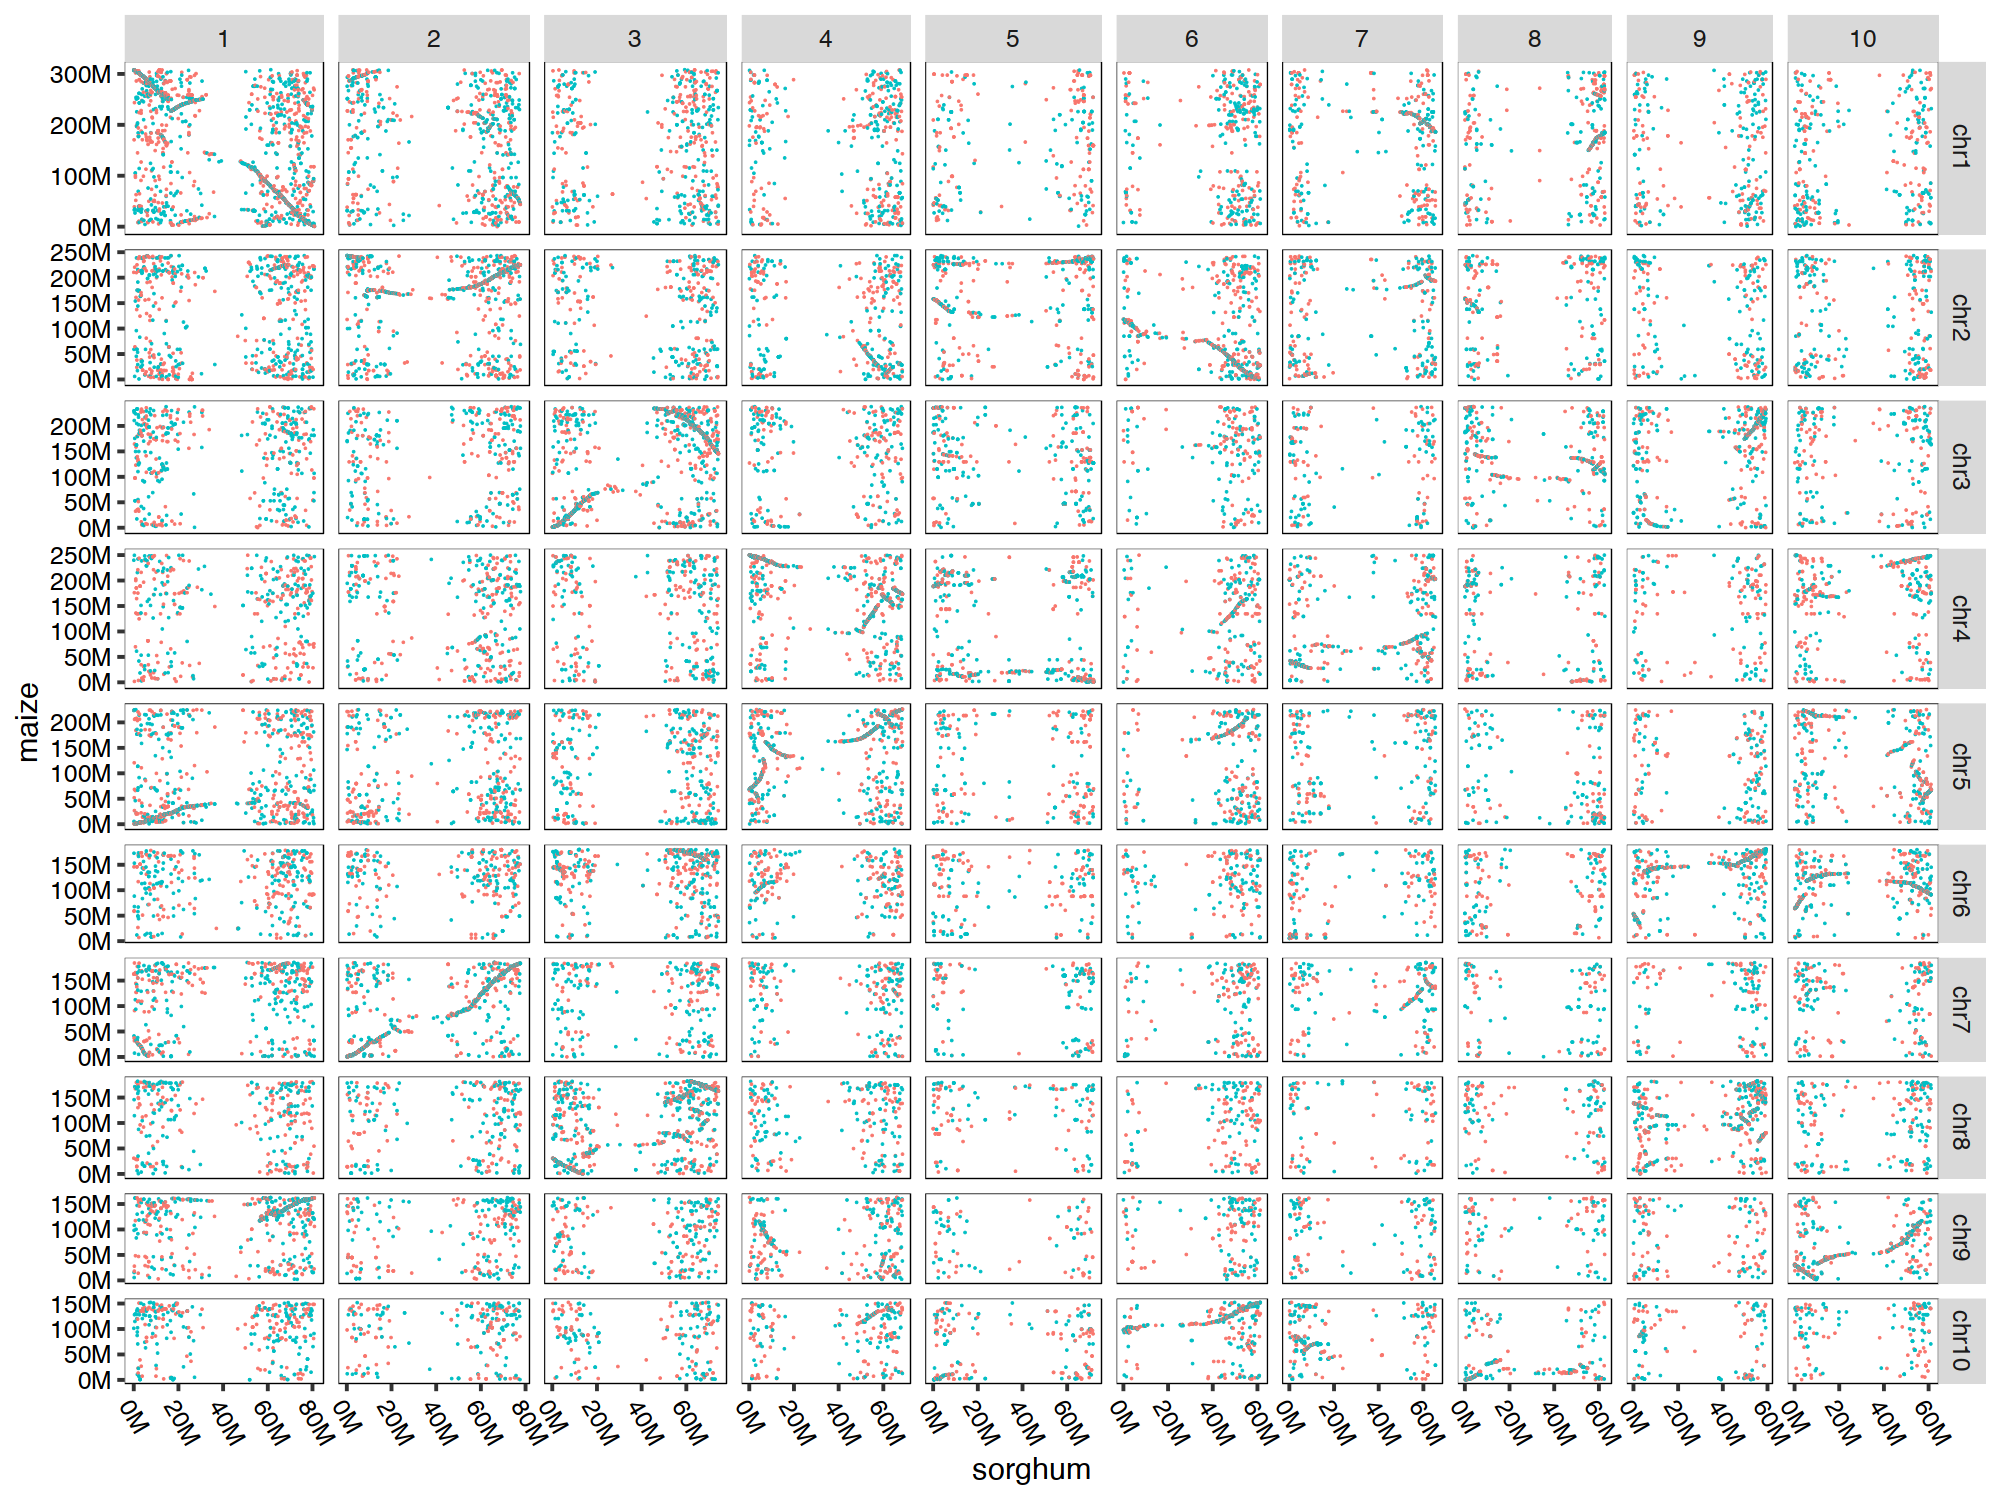
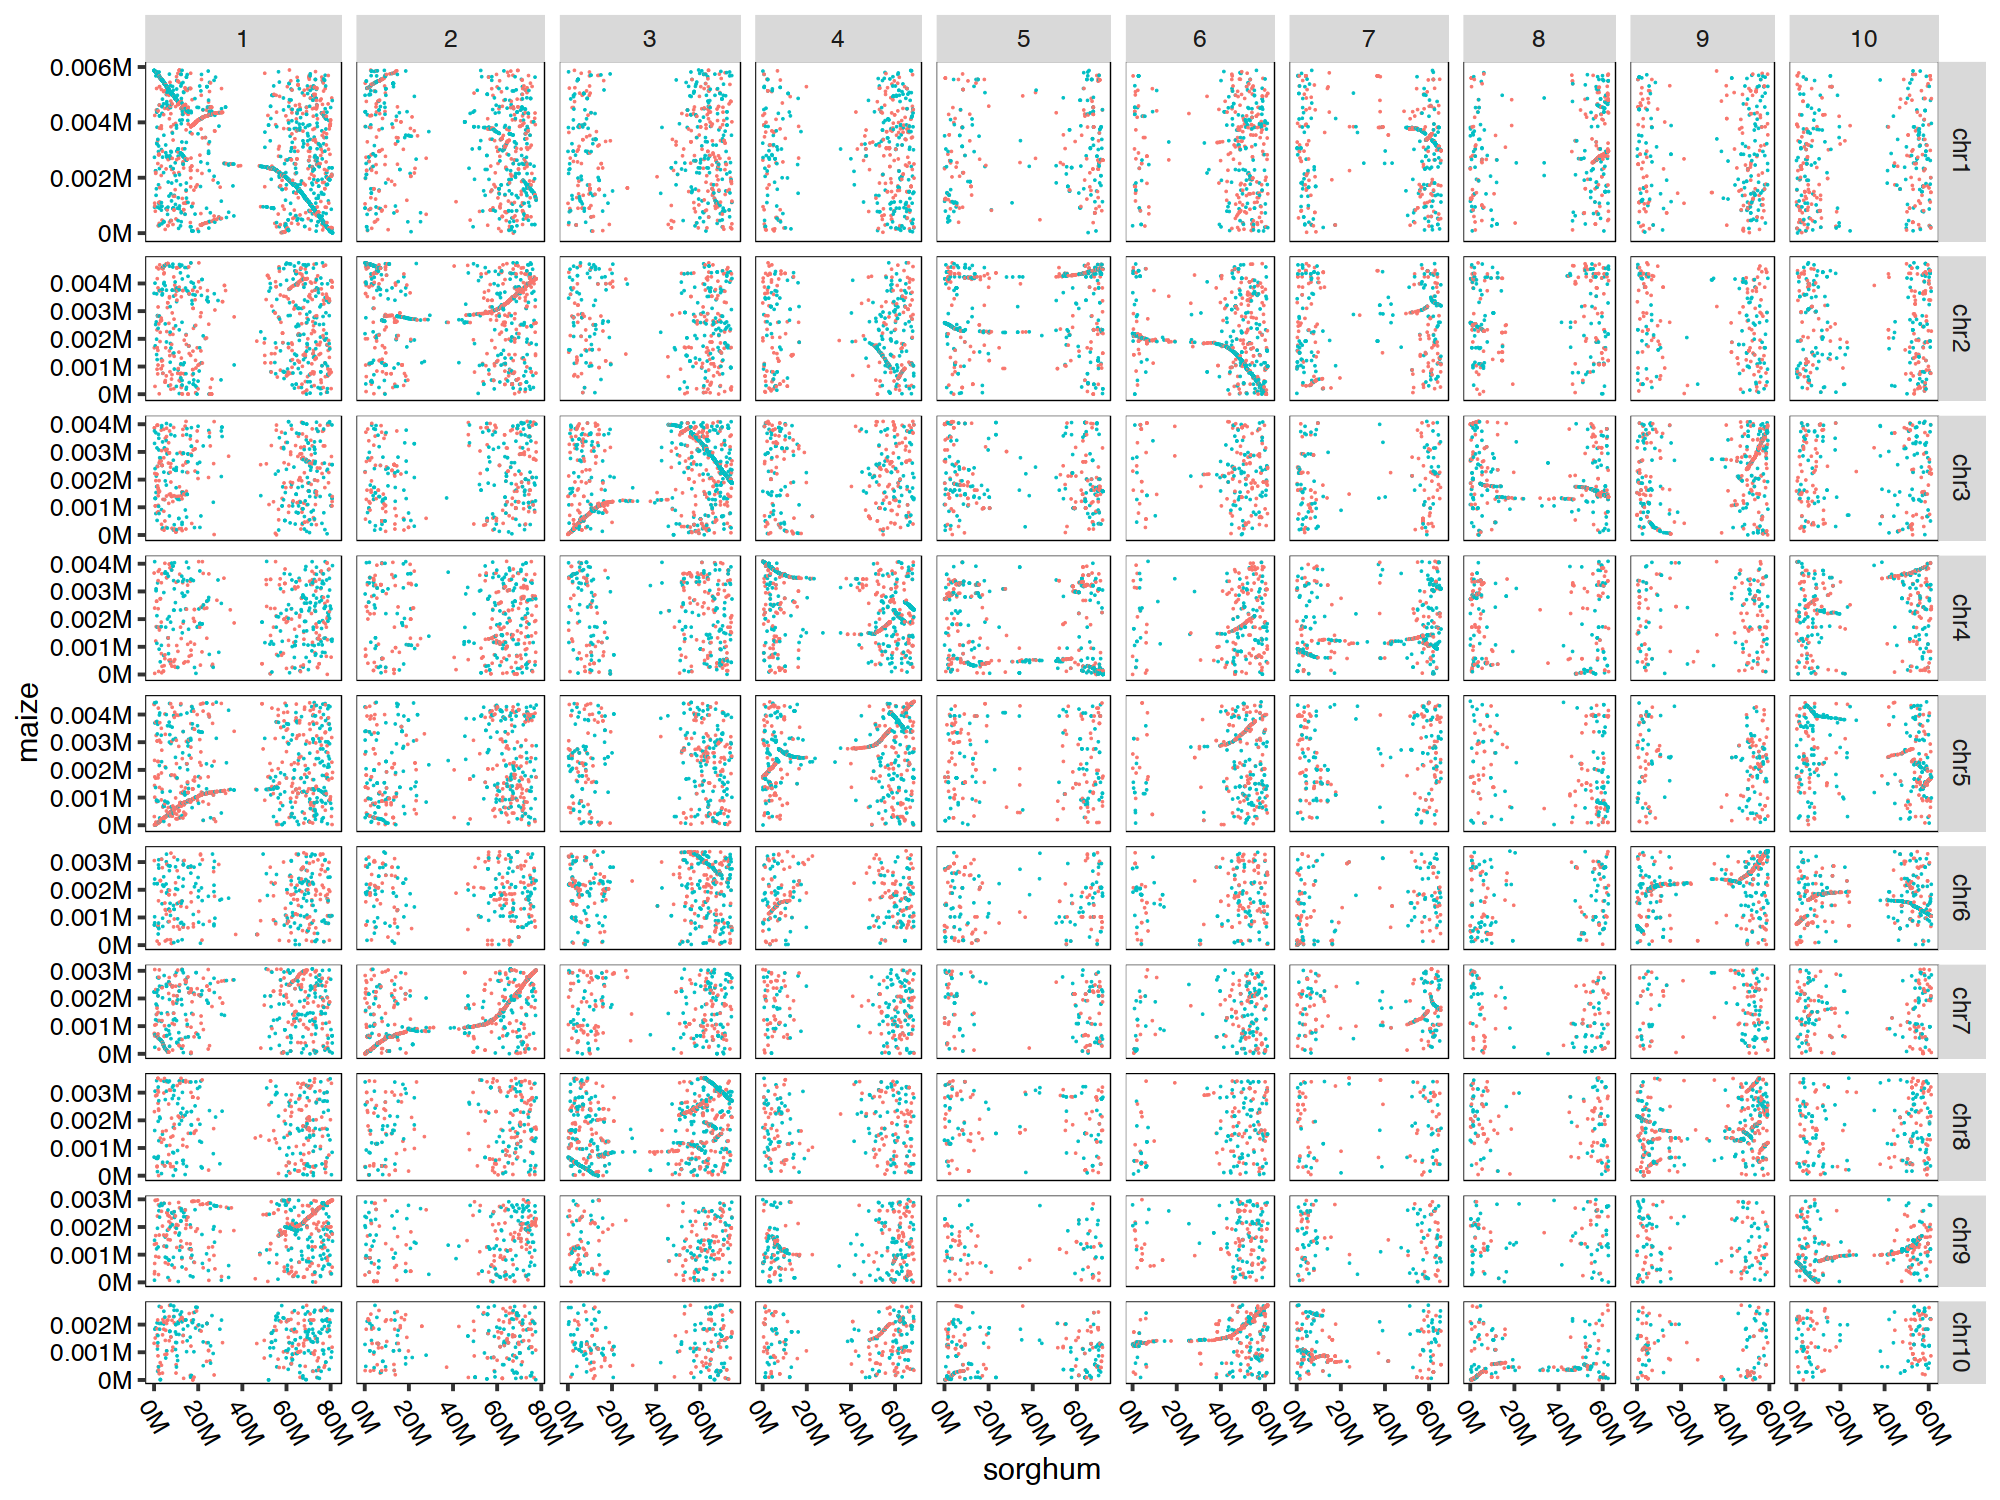
using ArgumentParser

Changed region(s): [[0.0, 0.0, 0.992, 1.0]]

diff --git a/longestPeps.py b/longestPeps.py
@@ -6,14 +6,14 @@ import GffFile
 import MyUtil
 import sys
 import numpy as np
-
+from argparse import ArgumentParser
 import math
 
-# song@mpipz.mpg.de
+# baoxing.song@pku-iaas.edu.cn
 
 _buckets = []
 
-def read_data(gffFile, fastaFile, proteinSeqs, outputFile):
+def longestPeps(gffFile, fastaFile, proteinSeqs, outputFile):
     chromosome_gene_dict, chromosome_gene_list, geneName_toChr_dict = GffFile.readGff( gffFile )
     chromosome_names, fastas = FastaFile.readFastaFile( fastaFile )
     pep_names, pep_fastas = FastaFile.readFastaFile(proteinSeqs)
@@ -60,6 +60,57 @@ def read_data(gffFile, fastaFile, proteinSeqs, outputFile):
     output.close()
     return chromosome_gene_dict
 
-print ("begin to run")
-read_data(sys.argv[1], sys.argv[2], sys.argv[3], sys.argv[4])
-print ("stop running")
+
+
+if __name__ == '__main__':
+    parser = ArgumentParser(description='Prepare file for the strand and WGD aware syntenic gene identification function implemented in AnchorWave')
+    parser.add_argument("-g", "--GFF",
+                        dest="GffFile",
+                        type=str,
+                        default="",
+                        help="Genome annotation in GFF formation")
+    parser.add_argument("-f", "--fastaFile",
+                        dest="fastaFile",
+                        type=str,
+                        default="",
+                        help="Genome sequences in FASTA format")
+    parser.add_argument("-p", "--proteinSeqs",
+                        dest="proteinSeqs",
+                        type=str,
+                        default="",
+                        help="Protein sequences in FASTA format")
+
+    parser.add_argument("-o", "--output",
+                        dest="outputFile",
+                        type=str,
+                        default="",
+                        help="output file")
+
+    args = parser.parse_args()
+
+    if args.GffFile == "":
+        print("Error: please specify --GffFile", file=sys.stderr)
+        parser.print_help()
+        sys.exit(1)
+
+    if args.fastaFile == "":
+        print("Error: please specify --fastaFile", file=sys.stderr)
+        parser.print_help()
+        sys.exit(1)
+
+    if args.proteinSeqs == "":
+        print("Error: please specify --proteinSeqs", file=sys.stderr)
+        parser.print_help()
+        sys.exit(1)
+
+    if args.outputFile == "":
+        print("Error: please specify --output", file=sys.stderr)
+        parser.print_help()
+        sys.exit(1)
+
+    gffFile = args.GffFile
+    fastaFile = args.fastaFile
+    proteinSeqs = args.proteinSeqs
+    outputFile = args.outputFile
+
+    longestPeps(gffFile, fastaFile, proteinSeqs, outputFile)

diff --git a/MyUtil.py b/MyUtil.py
@@ -5,7 +5,7 @@ import NucleotideCodeSubstitution
 import FastaFile
 import GffFile
 
-# song@mpipz.mpg.de
+# baoxing.song@pku-iaas.edu.cn
 
 
 def overlap_with_certain_gene(position, chromosome_name, strand, chromosome_gene_dict):

diff --git a/GffFile.py b/GffFile.py
@@ -3,7 +3,7 @@ import re
 import numpy as np
 import FastaFile
 
-# song@mpipz.mpg.de
+# baoxing.song@pku-iaas.edu.cn
 
 class Transcript:
     chromosome_name = ""

diff --git a/NucleotideCodeSubstitution.py b/NucleotideCodeSubstitution.py
@@ -7,7 +7,7 @@ import numpy as np
 
 import FastaFile
 
-# song@mpipz.mpg.de
+# baoxing.song@pku-iaas.edu.cn
 
 
 location = os.path.dirname(sys.argv[0])

diff --git a/FastaFile.py b/FastaFile.py
@@ -1,7 +1,7 @@
 #!python
 import re
 
-# song@mpipz.mpg.de
+# baoxing.song@pku-iaas.edu.cn
 
 class Fasta:
     name = ""

diff --git a/README.md b/README.md
@@ -26,8 +26,8 @@ gffread -g Sorghum_bicolor.Sorghum_bicolor_NCBIv3.dna.toplevel.fa -y sb.p.fa Sor
 
 ### Identify and extract the longest protein sequence encoded by each gene
 ```
-python3 longestPeps.py Zm-B73-REFERENCE-NAM-5.0_Zm00001eb.1.gff3 Zm-B73-REFERENCE-NAM-5.0.fa zea.p.fa maize.protein.fa
-python3 longestPeps.py Sorghum_bicolor.Sorghum_bicolor_NCBIv3.57.gff3 Sorghum_bicolor.Sorghum_bicolor_NCBIv3.dna.toplevel.fa sb.p.fa sorghum.protein.fa
+python3 longestPeps.py -g Zm-B73-REFERENCE-NAM-5.0_Zm00001eb.1.gff3 -f Zm-B73-REFERENCE-NAM-5.0.fa -p zea.p.fa -o maize.protein.fa
+python3 longestPeps.py -g Sorghum_bicolor.Sorghum_bicolor_NCBIv3.57.gff3 -f Sorghum_bicolor.Sorghum_bicolor_NCBIv3.dna.toplevel.fa -p sb.p.fa -o sorghum.protein.fa
 ```
 
 ### Protein sequence alignment
@@ -39,7 +39,7 @@ Conduct protein sequence alignment using BLASTp
 
 ### Put the gene strand information and the blast result into a single file
 ```
-python3 combineBlastAndStrandInformation.py Zm-B73-REFERENCE-NAM-5.0_Zm00001eb.1.gff3 Sorghum_bicolor.Sorghum_bicolor_NCBIv3.57.gff3 sorghum.maize.blastp sorghum.maize.table
+python3 combineBlastAndStrandInformation.py -r Zm-B73-REFERENCE-NAM-5.0_Zm00001eb.1.gff3 -q Sorghum_bicolor.Sorghum_bicolor_NCBIv3.57.gff3 -b sorghum.maize.blastp -o sorghum.maize.table
 ```
 
 This table could be visualized via the following R code:
@@ -54,17 +54,17 @@ changetoM <- function ( position ){
   paste(position, "M", sep="")
 }
 data =read.table("sorghum.maize.table")
-data$strand = data$V5==data$V10
+data$strand = data$V6==data$V12
 data[which(data$strand),]$strand = "+"
 data[which(data$strand==FALSE),]$strand = "-"
 
-data = data[which(data$V7 %in% c("1", "2", "3", "4", "5", "6", "7", "8", "9", "10")),]
+data = data[which(data$V8 %in% c("1", "2", "3", "4", "5", "6", "7", "8", "9", "10")),]
 data = data[which(data$V2 %in% c("chr1", "chr2", "chr3", "chr4", "chr5", "chr6", "chr7", "chr8", "chr9", "chr10")),]
-data$V7 = factor(data$V7, levels=c("1", "2", "3", "4", "5", "6", "7", "8", "9", "10"))
+data$V8 = factor(data$V8, levels=c("1", "2", "3", "4", "5", "6", "7", "8", "9", "10"))
 data$V2 = factor(data$V2, levels=c("chr1", "chr2", "chr3", "chr4", "chr5", "chr6", "chr7", "chr8", "chr9", "chr10"))
 
 
-plot = ggplot(data=data, aes(x=V8, y=V3))+geom_point(size=0.5, aes(color=V5))+facet_grid(V2~V7, scales="free", space="free" )+ theme_grey(base_size = 30) +
+plot = ggplot(data=data, aes(x=V10, y=V3))+geom_point(size=0.5, aes(color=strand))+facet_grid(V2~V8, scales="free", space="free" )+ theme_grey(base_size = 30) +
     labs(x="sorghum", y="maize")+scale_x_continuous(labels=changetoM) + scale_y_continuous(labels=changetoM) +
     theme(axis.line = element_blank(),
           panel.background = element_blank(),
